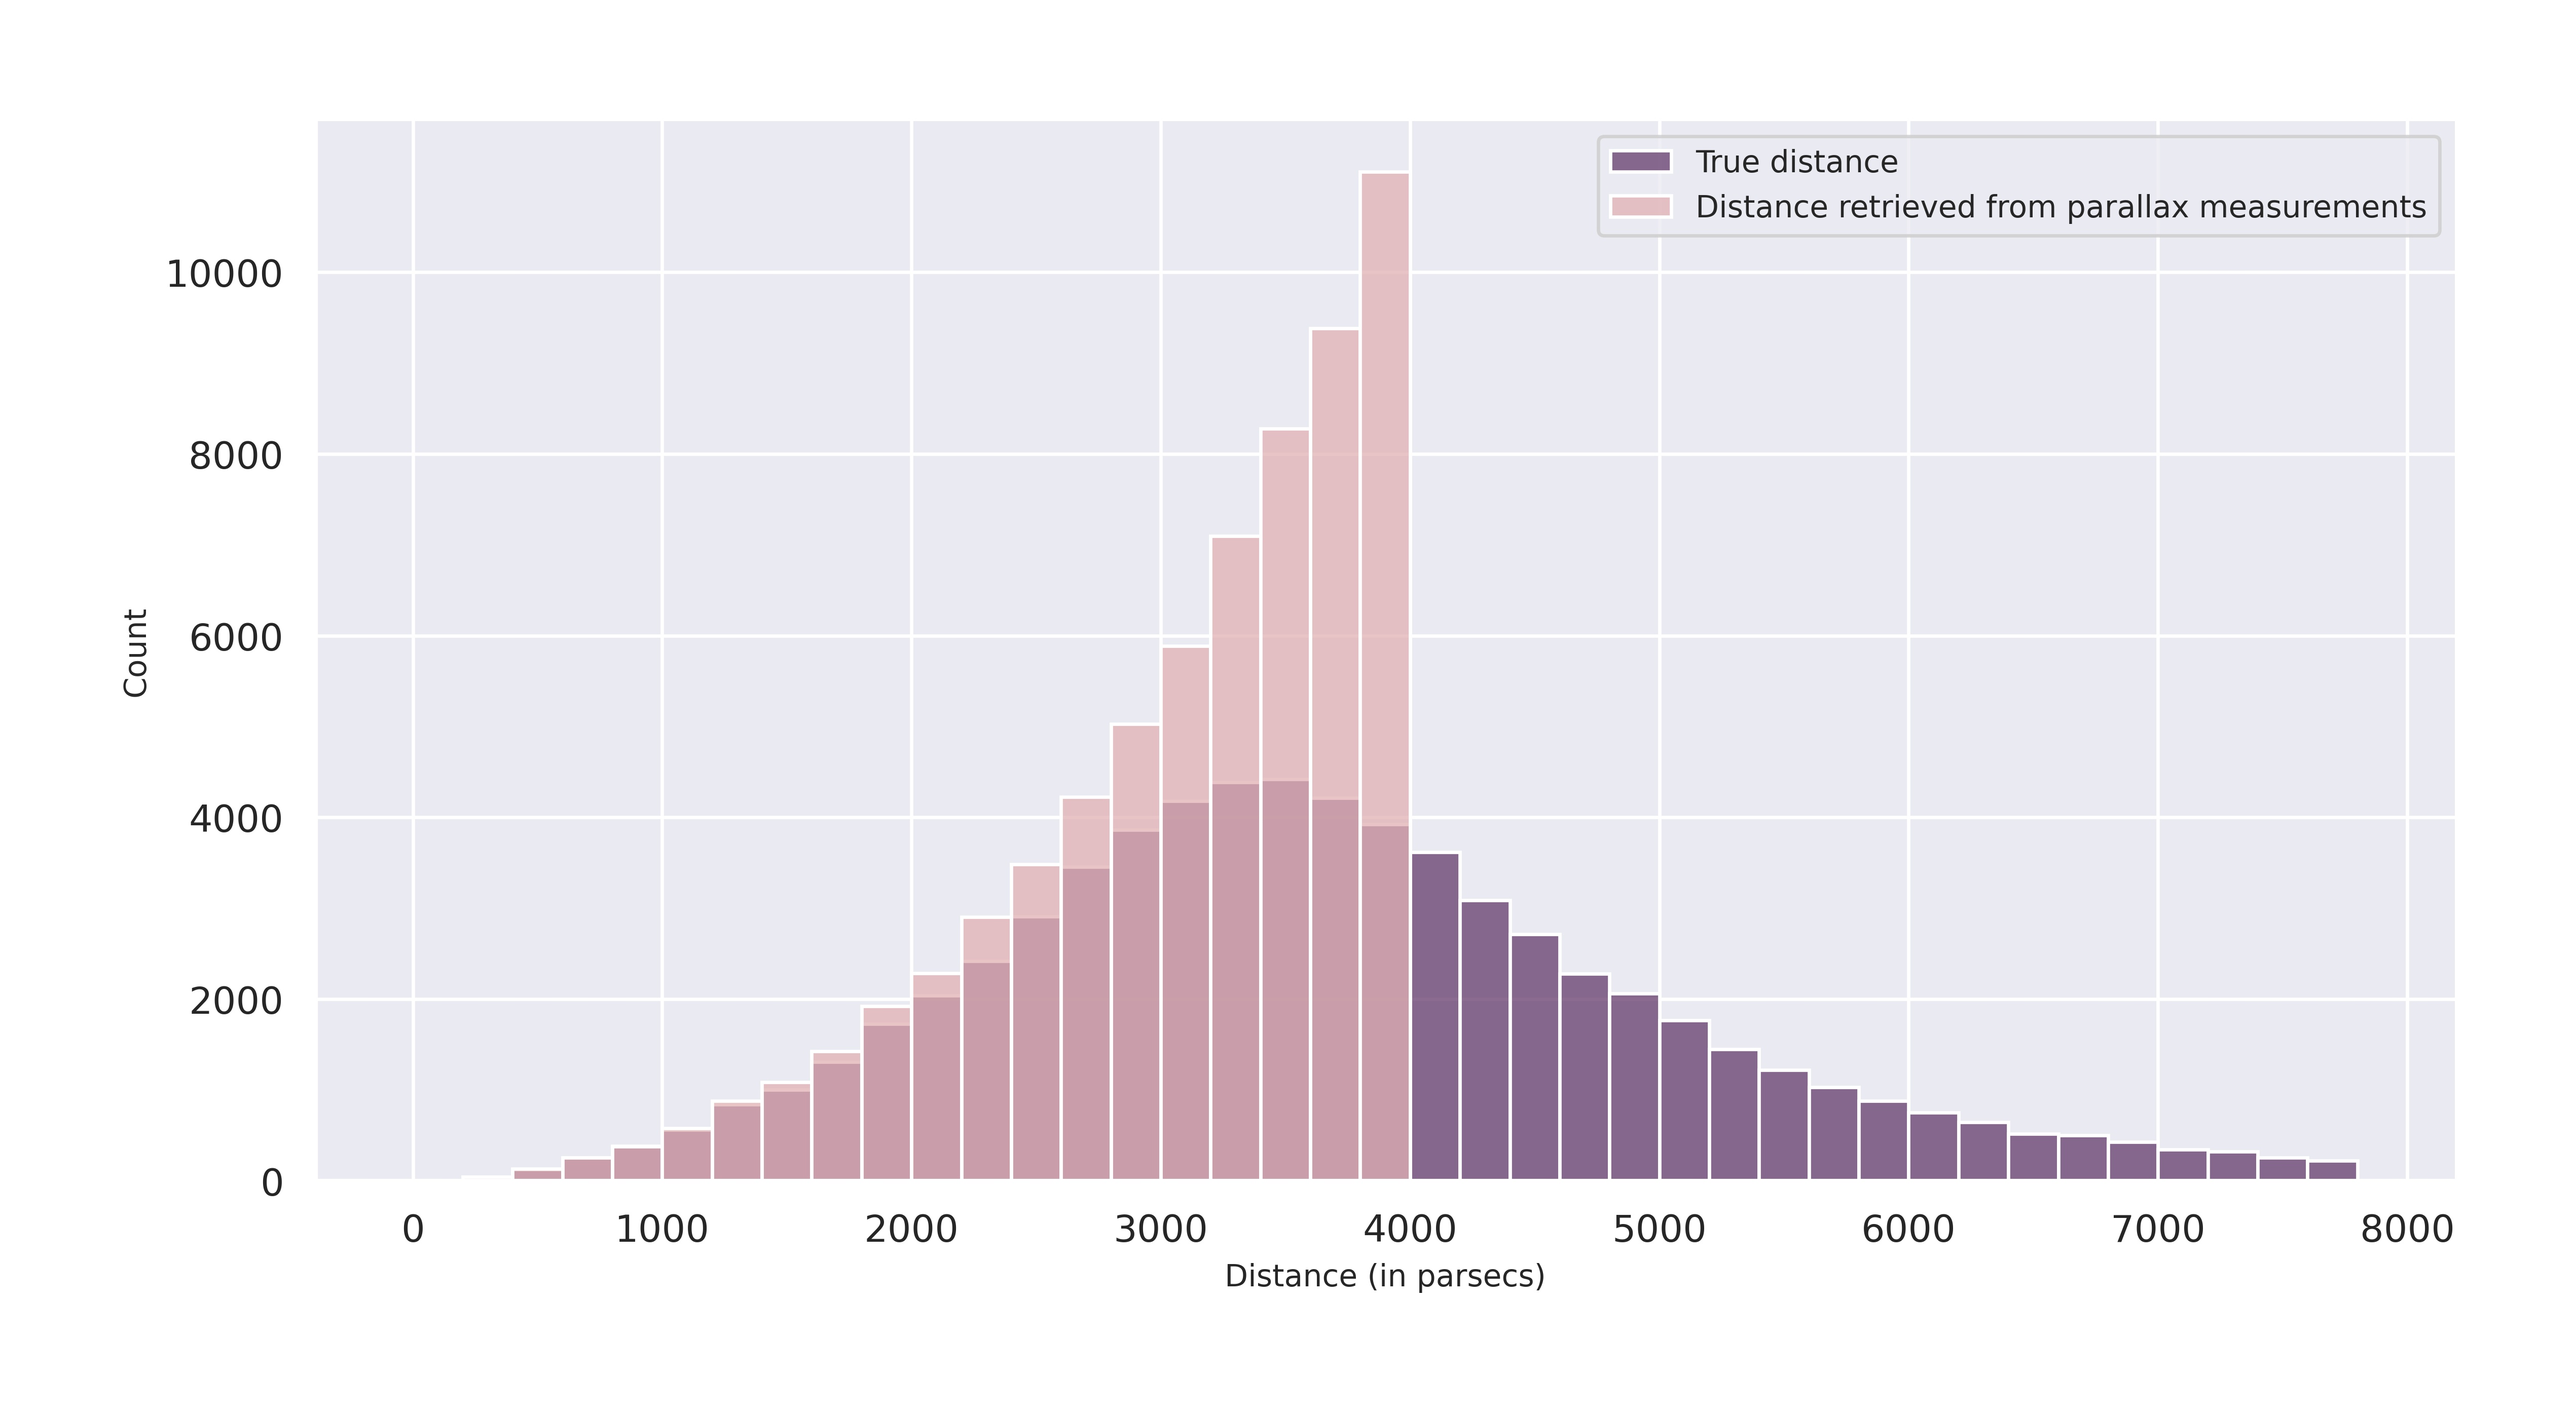
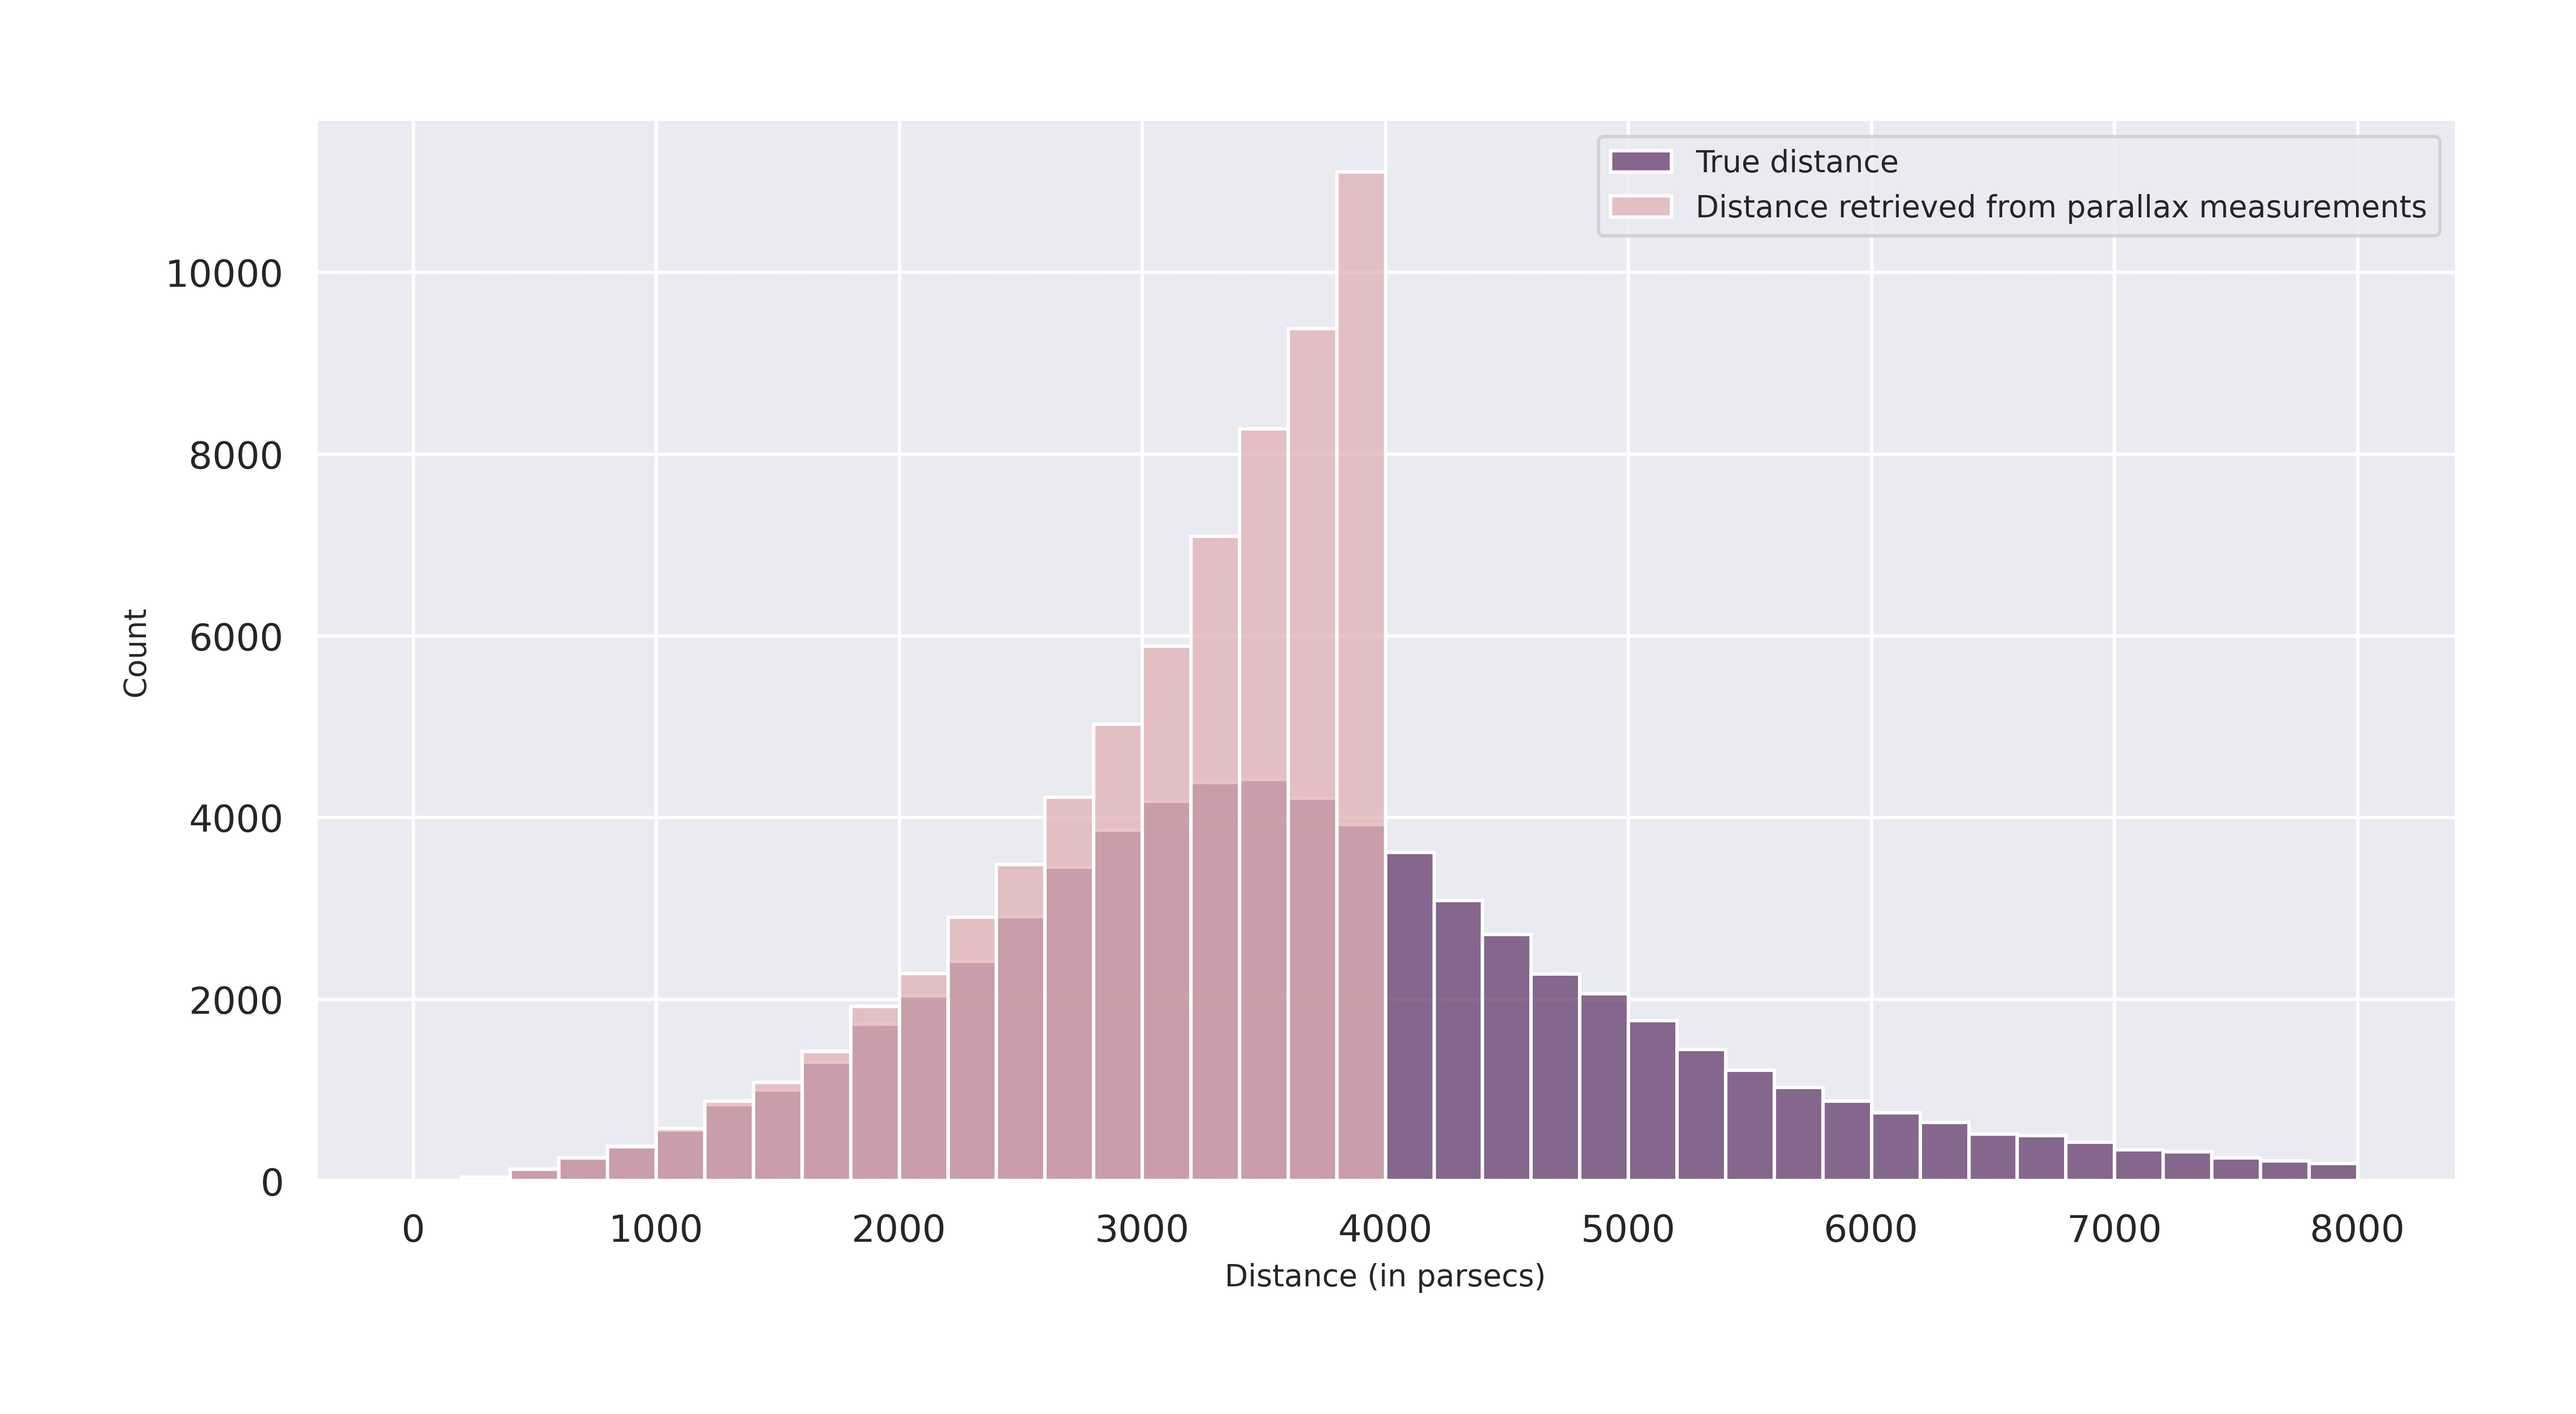
Updated bins for magnitude plots. Updated q_a function to generate individual subplots also.

Changed region(s): [[0.2487, 0.1247, 0.9016, 0.904], [0.9016, 0.8416, 0.9638, 0.8728], [0.4353, 0.8416, 0.4664, 0.904]]

diff --git a/plotter.py b/plotter.py
@@ -25,62 +25,80 @@ def q_ii(df):
 def q_a(df,columns,directory):
 	# plt.clf()
 	sns.set()
-	# palette = ['#ffd66b','#522d5b']
+	# palette1 = ['#ffd66b','#522d5b']
 	palette = sns.cubehelix_palette(2,rot=0.4,dark=0.3,light=0.75)
-	bins = np.arange(0,df[columns].max().max(),200)
+	bins = np.arange(0,df[columns].max().max()+1,200)
 	sns.displot(data=df[columns],kind='hist',palette=palette,bins=bins,legend=False,aspect=2)
 	plt.xlabel('Distance (in parsecs)', fontsize=9)
 	plt.ylabel('Count', fontsize=9)
 	plt.legend(labels=['True distance','Distance retrieved from parallax measurements'], fontsize=9)
 	# plt.show()
-	plt.savefig(directory+'/plots/hist_dist_true-retrieved.jpg',bbox_inches='tight',pad_inches=0.5,dpi=480)
+	plt.savefig(directory+'/plots/hist_dist_true-retrieved.jpg',bbox_inches='tight',
+		pad_inches=0.5,dpi=480)
+	sns.set()
+	fig, (ax1,ax2) = plt.subplots(1,2,sharex=False,figsize=(16,4))
+	sns.histplot(data=df,x=columns[0],color=palette[0],ax=ax1,bins=np.arange(0,df[columns[0]].max()+1,200),legend=True)
+	ax1.set_xlabel('Distance retrieved from parallax measurements (in parsecs)', fontsize=9)
+	ax1.set_ylabel('Count', fontsize=9)
+	sns.histplot(data=df,x=columns[1],color=palette[1],ax=ax2,bins=np.arange(0,df[columns[1]].max()+1,200),legend=True)
+	ax2.set_xlabel('True distance (in parsecs)', fontsize=9)
+	ax2.set_ylabel(' ')
+	# plt.show()
+	fig.savefig(directory+'/plots/hist_individual_dist_true-retrieved.jpg',bbox_inches='tight',
+		pad_inches=0.5,dpi=480)
 	return
 
 def q_b(df,directory):
 	sns.set()
-	sns.relplot(data=df,x='retrieved_dist',y='retrieved_abs_mag',kind='scatter',color='#827397',s=5,linewidth=0.05,aspect=2)
+	sns.relplot(data=df,x='retrieved_dist',y='retrieved_abs_mag',kind='scatter',color='#827397',
+		s=5,linewidth=0.05,aspect=2)
 	plt.xlabel('Distance retrieved from parallax measurements (in parsecs)', fontsize=9)
 	plt.ylabel('Absolute magnitude retrieved from parallax measurements', fontsize=9)
 	# plt.show()
-	plt.savefig(directory+'/plots/scatter_retrieved_dist-abs_mag.jpg',bbox_inches='tight',pad_inches=0.5,dpi=480)
+	plt.savefig(directory+'/plots/scatter_retrieved_dist-abs_mag.jpg',bbox_inches='tight',
+		pad_inches=0.5,dpi=480)
 	return
 
 def q_c(df,directory):
 	sns.set()
 	# palette = ['#fff0d7','#4dabab','#1089b1','#baeaf4']
 	palette = sns.cubehelix_palette(4,rot=0.4,dark=0.75,light=0.1)
-	bins = np.linspace(df['retrieved_abs_mag'].min(),df['retrieved_abs_mag'].max(),50)
+	bins = np.linspace(df['retrieved_abs_mag'].min(),df['retrieved_abs_mag'].max()+1,85)
 	plot = sns.displot(data=df,x='retrieved_abs_mag',kind='hist',hue='dist_category',\
 		bins=bins,palette=palette,legend=True,aspect=2)
 	plt.xlabel('Absolute magnitude retrieved from parallax measurements', fontsize=9)
 	plt.ylabel('Count', fontsize=9)
 	plot._legend.set_title('Distance range')
-	plt.savefig(directory+'/plots/hist_retrieved_absmag.jpg',bbox_inches='tight',pad_inches=0.5,dpi=480)
+	plt.savefig(directory+'/plots/hist_retrieved_absmag.jpg',bbox_inches='tight',
+		pad_inches=0.5,dpi=480)
 	sns.set(rc={'legend.frameon':True})
 	grid= sns.FacetGrid(data=df,col='dist_category',sharey=False,\
 		palette=palette,aspect=2,hue='dist_category',col_wrap=2, margin_titles=True,legend_out=True)
 	grid.map_dataframe(sns.histplot,x='retrieved_abs_mag',legend=True,bins=bins)
 	grid.set_axis_labels('Absolute magnitude retrieved from parallax measurements','Count',fontsize=9)
 	grid.set_titles(col_template="{col_name}", row_template="{row_name}")
-	plt.savefig(directory+'/plots/hist_individual_retrieved_absmag.jpg',bbox_inches='tight',pad_inches=0.5,dpi=480)
+	plt.savefig(directory+'/plots/hist_individual_retrieved_absmag.jpg',bbox_inches='tight',
+		pad_inches=0.5,dpi=480)
 	# plt.show()
 	return
 
 #------------------ Main --------------------------------
 
 directories=['./task1','./task2','./task3','./task4']
-
+# directories=['./task1']
 
 for directory in directories:
 	fname = directory+'/LK.dat'
-	col_names = ['true_parallax','true_dist','apparent_mag','observed_parallax','parallax_err','retrieved_dist','true_abs_mag','retrieved_abs_mag','photometric_err']
+	col_names = ['true_parallax','true_dist','apparent_mag','observed_parallax','parallax_err',
+	'retrieved_dist','true_abs_mag','retrieved_abs_mag','photometric_err']
 
 	df = pd.read_csv(fname, delim_whitespace=True, header=None, names=col_names, skiprows=15)
 	df = df[df['retrieved_abs_mag']!=99.0]
 	df = df[df['retrieved_dist']<=4000]
 	df.name = '0-4000pc'
 	bins = [0,1000,2000,3000,4000]
-	categories = ['upto 1kpc distance','1-2kpc distance range','2-3kpc distance range', '3-4kpc distance range']
+	categories = ['upto 1kpc distance','1-2kpc distance range','2-3kpc distance range',
+	'3-4kpc distance range']
 	df['dist_category']=pd.cut(df['retrieved_dist'],bins=bins,labels=categories)
 	print('\n\n',directory,'-'*50)
 	q_i(df)
